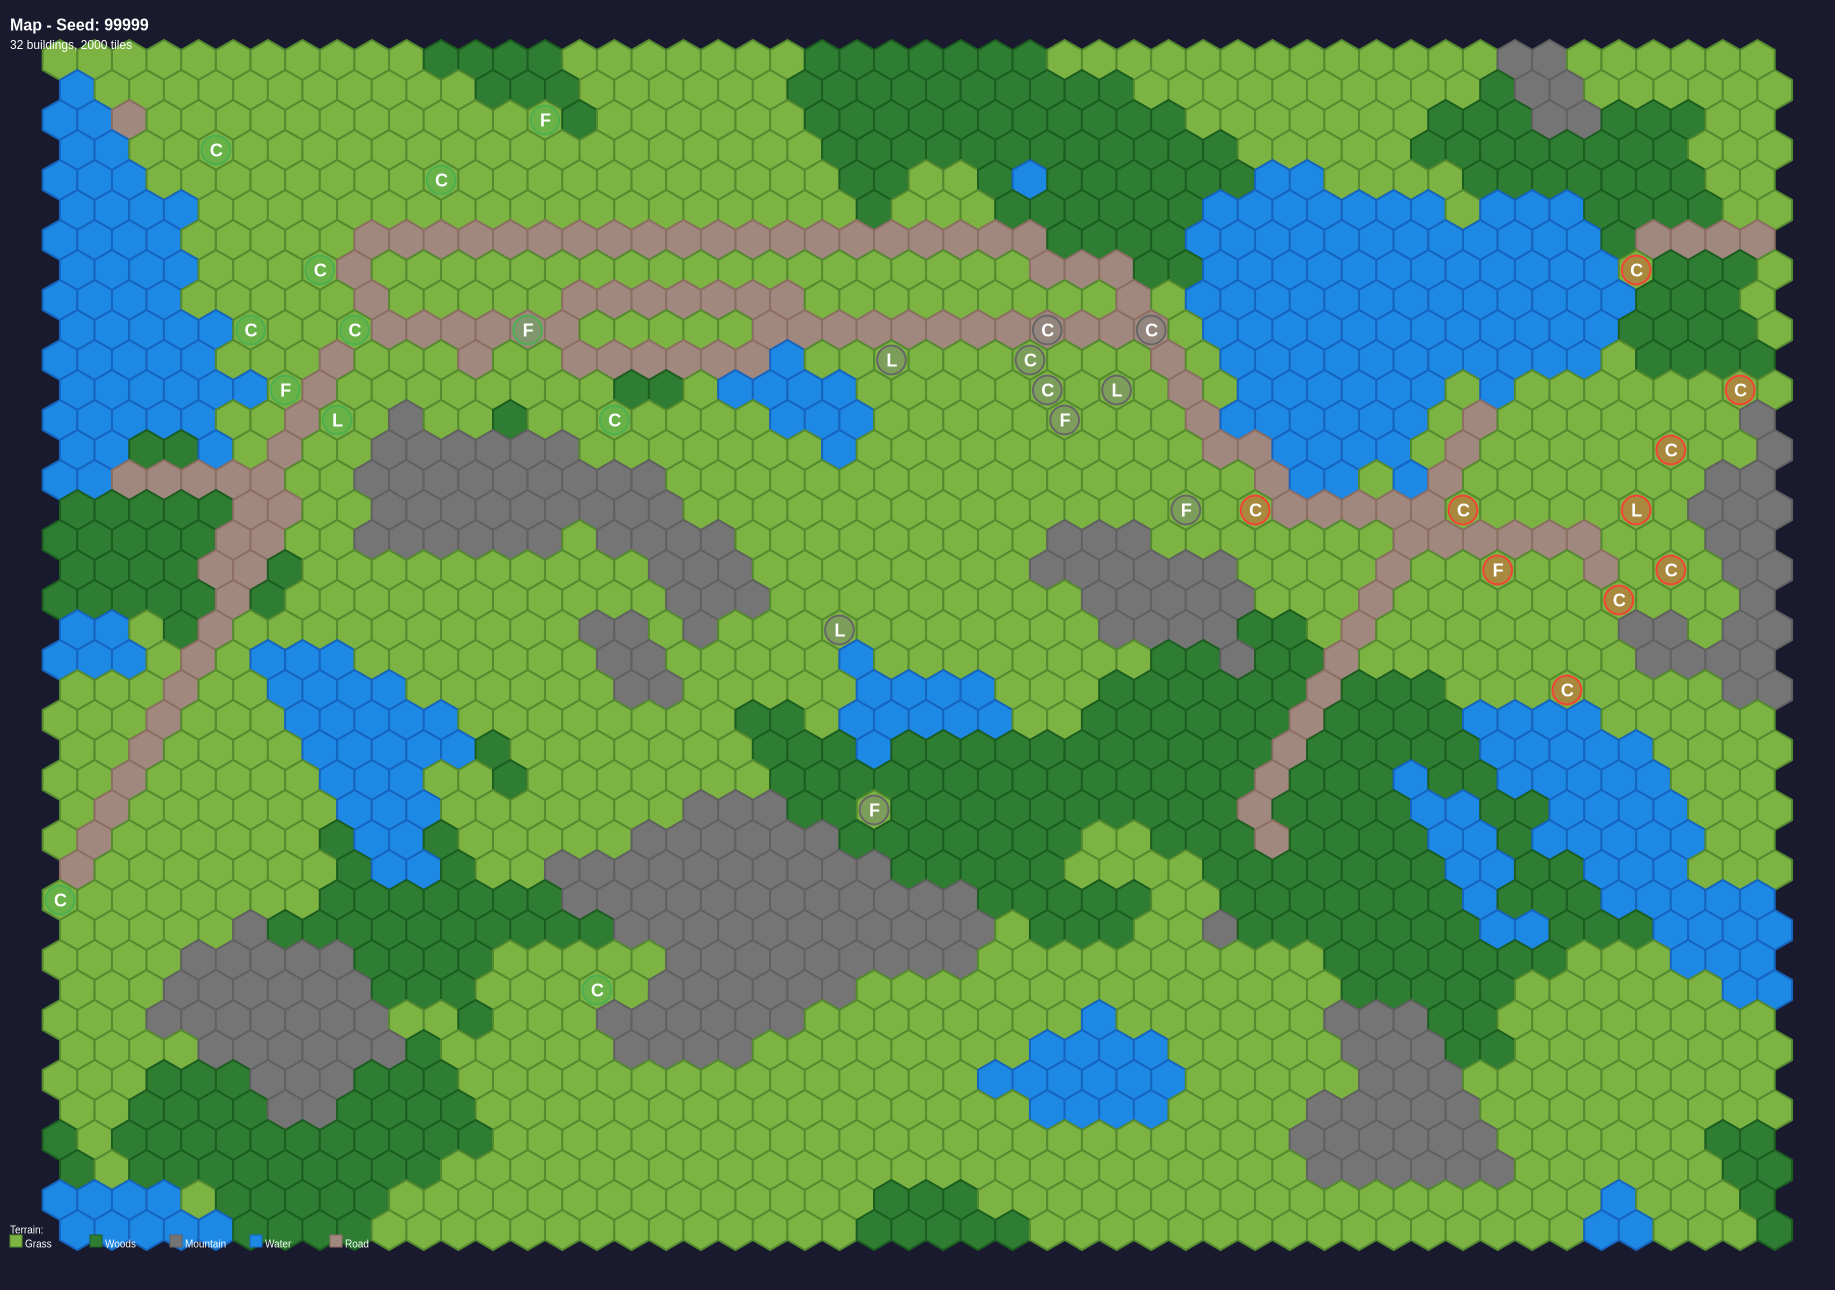
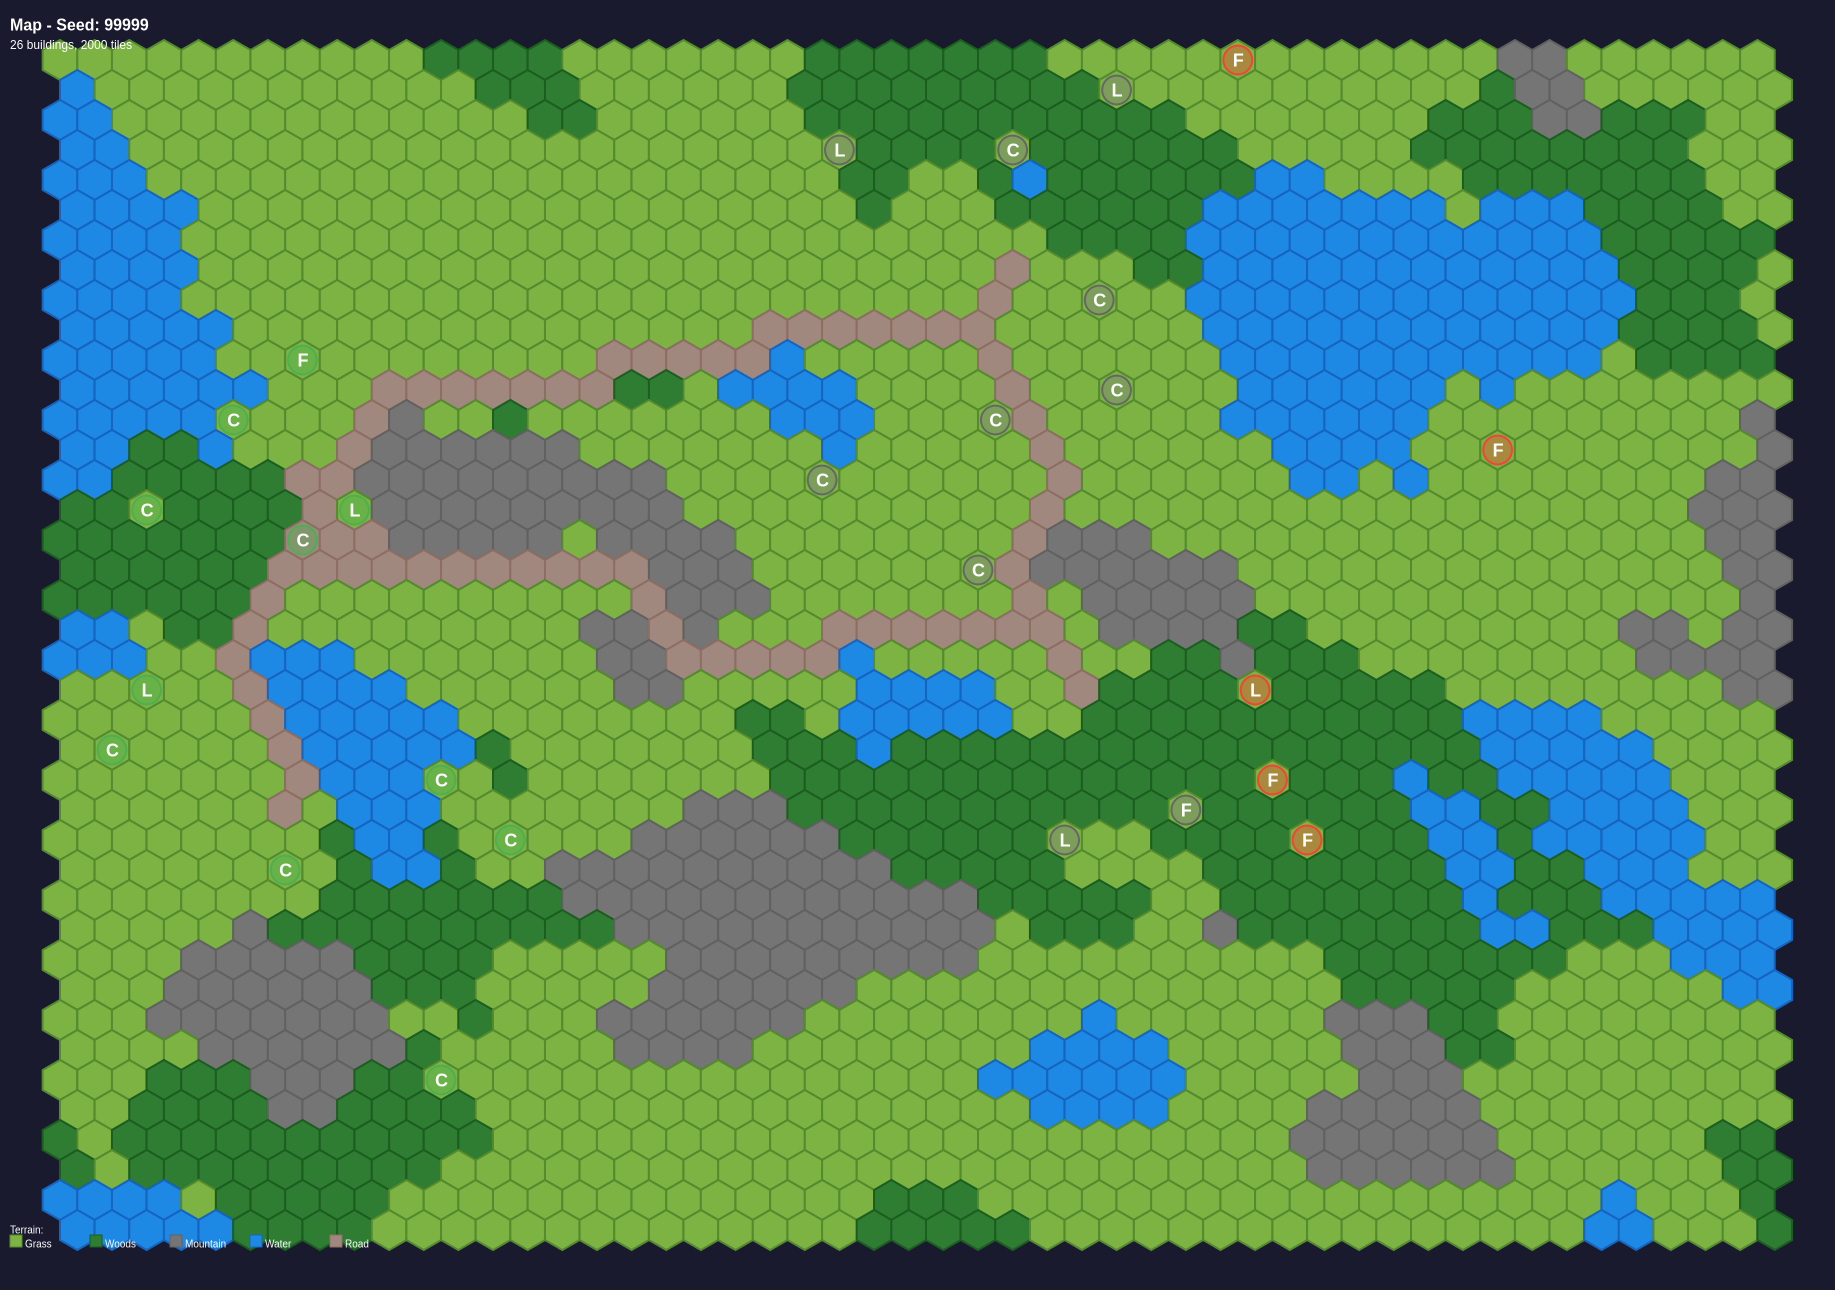
Remove old random road generation system
Root cause analysis: Parallel roads were caused by TWO road generation
systems running simultaneously, not by duplicate cluster connections.

Issues Fixed:
1. Old random road system (generateRoads) was still being called
   - Created 8 random wandering roads before building placement
   - These roads had nothing to do with building clusters
   - Combined with new cluster roads = visual mess

2. Unnecessary connectedPairs tracking
   - Added to prevent A→B + B→A duplicate roads
   - But pathfinding naturally reuses existing roads (cost 0.3)
   - When B→A pathfinds after A→B road exists, it follows same path
   - Tracking was redundant complexity

Changes:
- Removed generateRoads() call from generate()
- Removed connectedPairs Set and tracking logic
- Simplified generateClusterRoads() to trust pathfinding
- Added comment explaining why A→B + B→A won't create duplicates

Result:
- ONLY cluster-based pathfinding roads now generate
- Cleaner road networks that actually connect buildings
- Pathfinding naturally prevents duplicate parallel roads
- Building counts slightly changed (old roads affected placement)

Credit: User correctly identified that pathfinding SHOULD reuse roads,
leading to discovery that old road system was still active.

diff --git a/src/game-map.ts b/src/game-map.ts
@@ -120,13 +120,7 @@ export class GameMap {
       }
     }
 
-    // Step 2: Generate roads
-    const roadCount = cfg?.roadCount ?? GEN_PARAMS.roadCount;
-    if (roadCount > 0) {
-      this.generateRoads(rng, width, height, cfg);
-    }
-
-    // Step 3: Generate buildings
+    // Step 2: Generate buildings (which also generates cluster-based roads)
     if (cfg?.buildings) {
       this.generateBuildings(rng, width, height, cfg);
     }
@@ -348,17 +342,15 @@ export class GameMap {
       woods: 1.5,
       mountain: 3,
       water: 4,
-      road: 0.3,
+      road: 0.3,  // Low cost encourages reusing existing roads
       building: 1
     };
 
     const pathfinder = new Pathfinder(this);
 
-    // Track which cluster pairs are already connected to avoid parallel roads
-    const connectedPairs = new Set<string>();
-    const getPairKey = (a: number, b: number) => a < b ? `${a},${b}` : `${b},${a}`;
-
     // Connect each cluster to its 2 nearest neighbors
+    // Note: If A→B and B→A both happen, pathfinding will naturally
+    // reuse the existing road (cost 0.3) instead of creating parallel roads
     for (let i = 0; i < clusters.length; i++) {
       const cluster = clusters[i]!;
 
@@ -369,15 +361,8 @@ export class GameMap {
         .sort((a, b) => a.dist - b.dist)
         .slice(0, 2);
 
-      // Connect to each of the 2 nearest (if not already connected)
+      // Connect to each of the 2 nearest
       for (const { idx } of distances) {
-        const pairKey = getPairKey(i, idx);
-
-        // Skip if these clusters are already connected
-        if (connectedPairs.has(pairKey)) {
-          continue;
-        }
-
         const target = clusters[idx]!;
 
         // Use A* pathfinding to create road
@@ -395,9 +380,6 @@ export class GameMap {
               this.setTile(q, r, TILE_TYPES.ROAD);
             }
           }
-
-          // Mark this pair as connected
-          connectedPairs.add(pairKey);
         }
       }
     }
